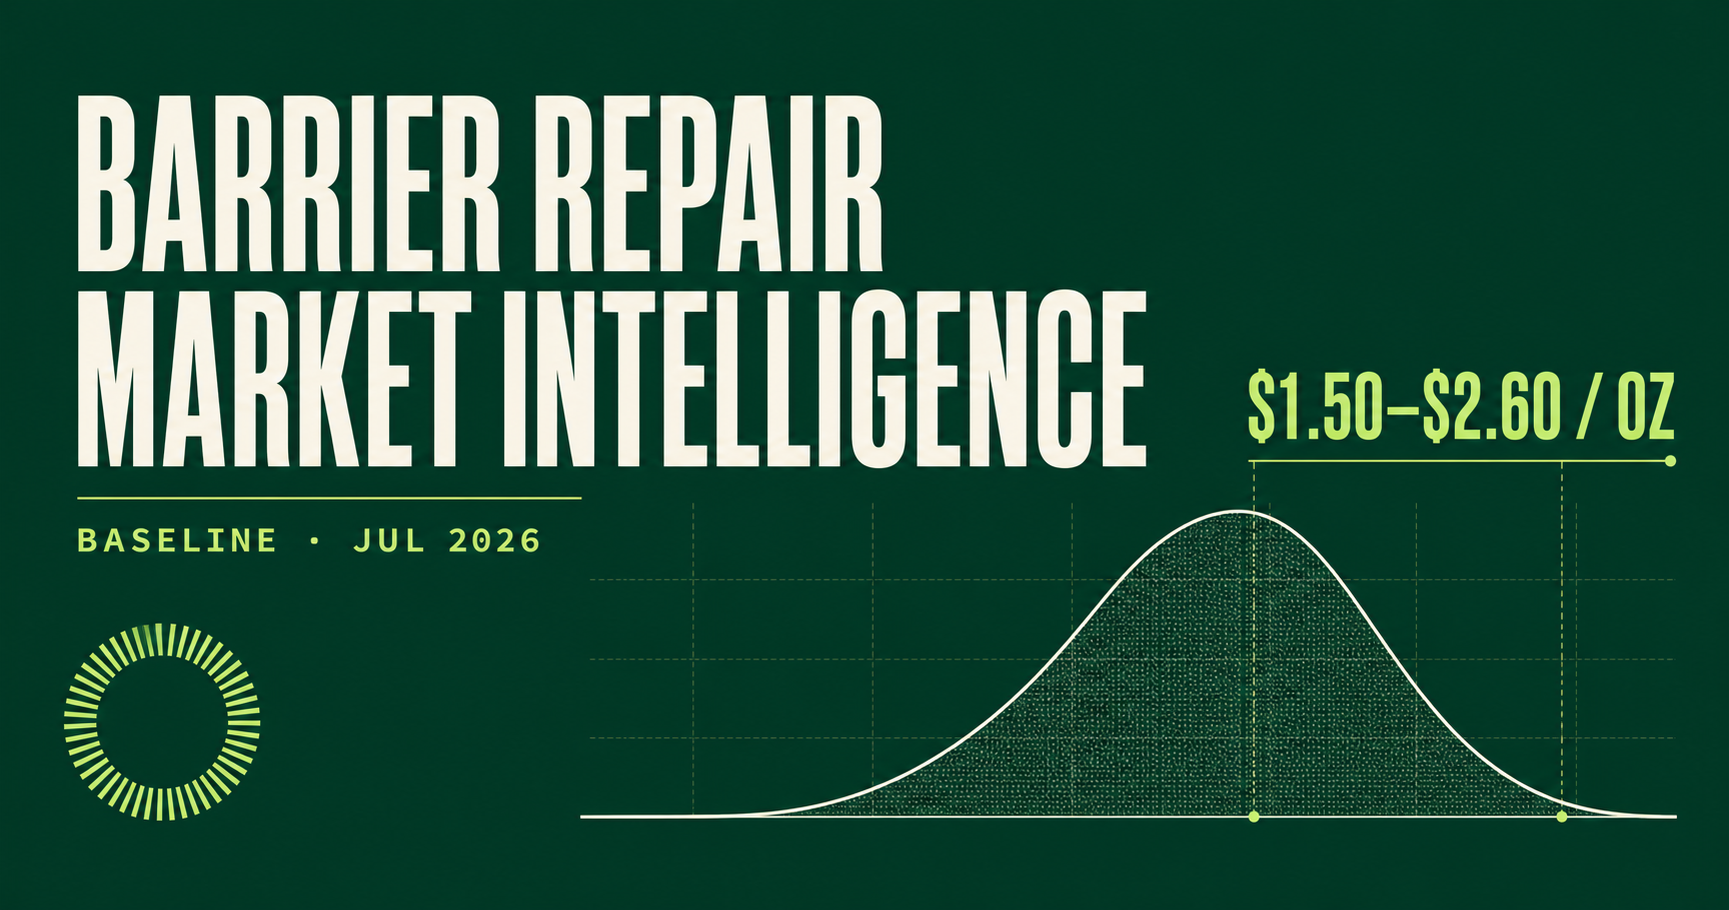
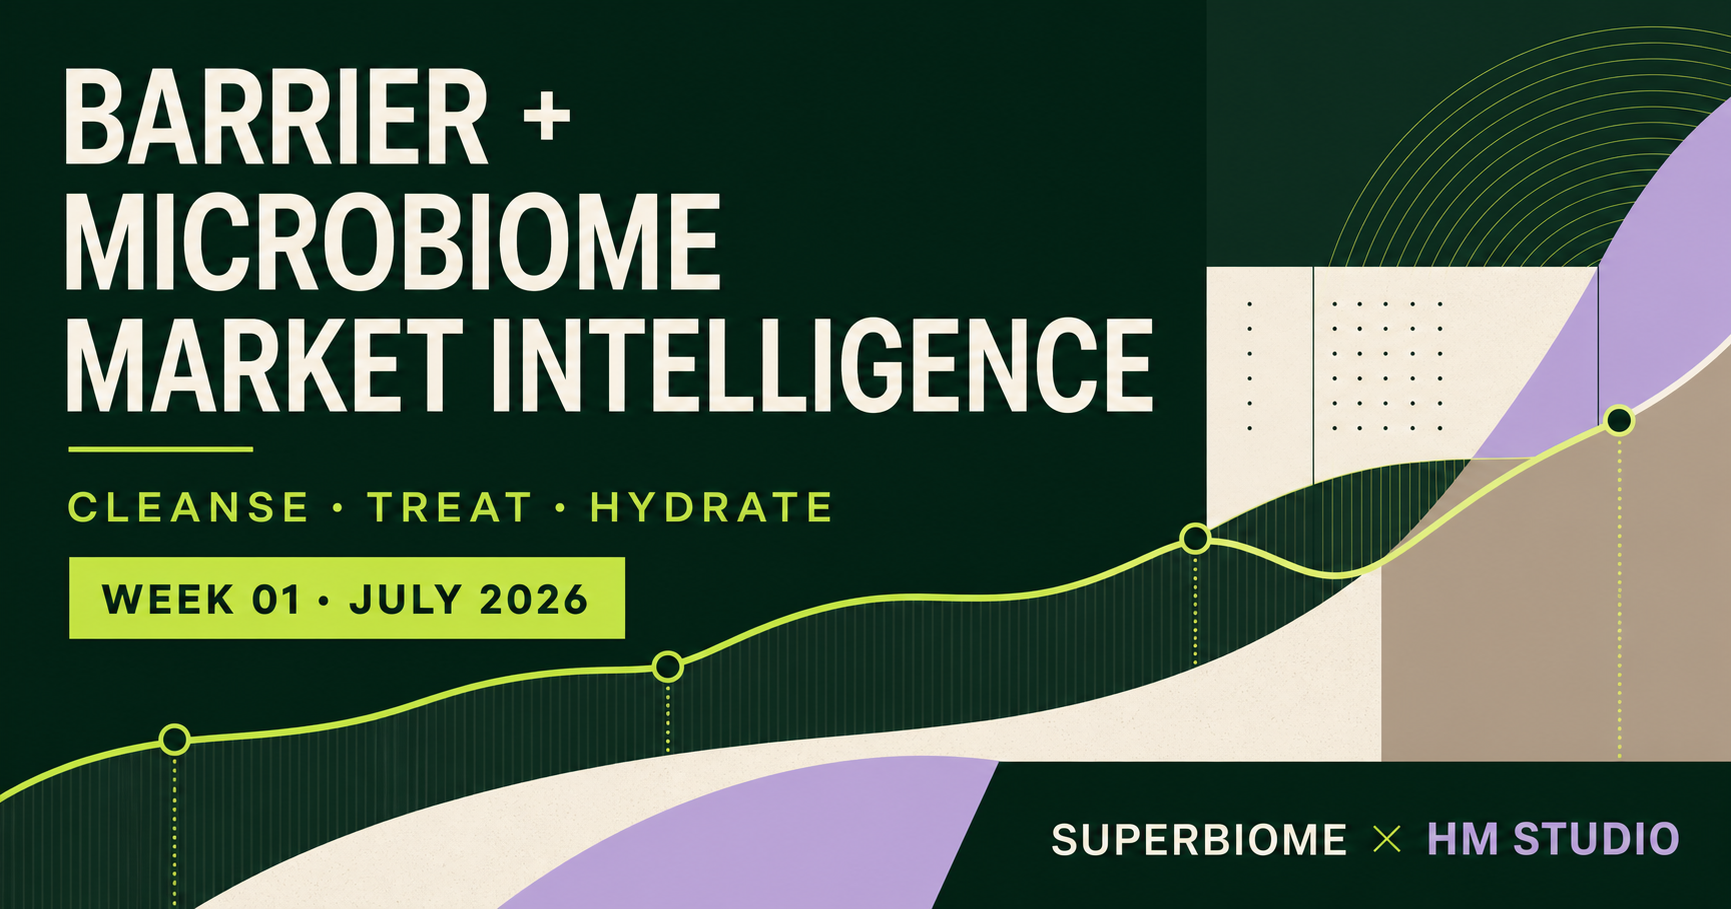
Expand intelligence dashboard to three-step system

diff --git a/app/page.tsx b/app/page.tsx
@@ -1,64 +1,64 @@
 "use client";
-
-import { useMemo, useState } from "react";
-
-type Product = {
-  rank: number; brand: string; product: string; platform: "Amazon" | "TikTok Shop" | "Cross-platform";
-  price: number; listPrice?: number; size: number; ppo: number; asin?: string; bsr?: number; subrank?: number;
-  velocity: string; signal: string; tier: "Value" | "Sweet spot" | "Premium"; url: string; confidence: "High" | "Medium";
-};
-
-const products: Product[] = [
-  {rank:1,brand:"Prequel",product:"Gleanser",platform:"TikTok Shop",price:22,size:13.5,ppo:1.63,velocity:"56.5K sold",signal:"Category breakout: face + body, 50% glycerin",tier:"Sweet spot",url:"https://shop.tiktok.com/us/k/gleanser-prequel",confidence:"High"},
-  {rank:2,brand:"CeraVe",product:"Hydrating Facial Cleanser",platform:"Amazon",price:14.37,listPrice:18.99,size:16,ppo:.90,asin:"B01MSSDEPK",bsr:50,subrank:2,velocity:"70K+ / month",signal:"Mass anchor; 24% discount; ceramide authority",tier:"Value",url:"https://www.amazon.com/dp/B01MSSDEPK",confidence:"High"},
-  {rank:3,brand:"Vanicream",product:"Gentle Facial Cleanser",platform:"Amazon",price:9.97,listPrice:12.55,size:8,ppo:1.25,asin:"B00QY1XZ4W",bsr:38,subrank:3,velocity:"70K+ / month",signal:"Sensitive-skin trust; 21% discount",tier:"Value",url:"https://www.amazon.com/dp/B00QY1XZ4W",confidence:"High"},
-  {rank:4,brand:"La Roche-Posay",product:"Toleriane Hydrating Gentle Cleanser",platform:"Amazon",price:19.97,size:13.52,ppo:1.48,asin:"B01N7T7JKJ",bsr:87,subrank:6,velocity:"70K+ / month",signal:"Derm credibility + ceramide/niacinamide",tier:"Value",url:"https://www.amazon.com/dp/B01N7T7JKJ",confidence:"High"},
-  {rank:5,brand:"BYOMA",product:"Creamy Jelly Cleanser",platform:"Cross-platform",price:11.49,size:5.91,ppo:1.94,velocity:"25 sold (visible listing)",signal:"Tri-ceramide + bright visual codes; TikTok-native",tier:"Sweet spot",url:"https://shop.tiktok.com/us/pdp/creamy-jelly-cleanser-byoma-for-hydration-skin-barrier-repair/1731151872467439664",confidence:"Medium"},
-  {rank:6,brand:"Naturium",product:"Niacinamide Cleansing Gelée 3%",platform:"TikTok Shop",price:17.90,listPrice:21,size:7.1,ppo:2.52,velocity:"326 sold",signal:"15% promo; active-led, non-stripping proposition",tier:"Sweet spot",url:"https://shop.tiktok.com/us/pdp/niacinamide-cleansing-gelee-3-by-naturium-for-soft-smooth-skin/1729776876934828438",confidence:"High"},
-  {rank:7,brand:"KraveBeauty",product:"Matcha Hemp Hydrating Cleanser",platform:"Amazon",price:16,size:4.05,ppo:3.95,asin:"B0BZ9KMY3S",bsr:7562,subrank:135,velocity:"Amazon rank visible",signal:"K-beauty sensoriality; non-stripping",tier:"Premium",url:"https://www.amazon.com/dp/B0BZ9KMY3S",confidence:"High"},
-  {rank:8,brand:"BeautyStat",product:"Universal Microbiome Barrier Balancing Cleanser",platform:"TikTok Shop",price:13,listPrice:26,size:4,ppo:3.25,velocity:"24.8K shop sold; 148 reviews",signal:"Direct microbiome language; 50% retail markdown",tier:"Premium",url:"https://shop.tiktok.com/us/pdp/cleanser-beautystat-universal-microbiome-barrier-150ml-hydrates-protects/1729414753674367088",confidence:"High"},
-  {rank:9,brand:"Aveeno",product:"Calm + Restore Nourishing Oat Cleanser",platform:"Cross-platform",price:11.99,size:7.8,ppo:1.54,velocity:"Editorial + marketplace visibility",signal:"Oat/comfort cue; sensitive-skin mass value",tier:"Sweet spot",url:"https://www.ulta.com/p/calm-restore-nourishing-oat-facial-cleanser-pimprod2017040",confidence:"Medium"},
-  {rank:10,brand:"ROUND LAB",product:"1025 Dokdo Cleanser",platform:"Amazon",price:11.39,listPrice:15,size:5.07,ppo:2.25,velocity:"1,761 Amazon ratings",signal:"Low-pH K-beauty; 24% observed discount",tier:"Sweet spot",url:"https://www.amazon.com/s?k=ROUND+LAB+1025+Dokdo+Cleanser+150ml",confidence:"Medium"},
-  {rank:11,brand:"Skinfix",product:"Barrier+ Ceramide + Ectoin Gentle Gel",platform:"Cross-platform",price:30,size:6,ppo:5,velocity:"Current barrier-community chatter",signal:"Clinical-premium; ectoin + ceramide",tier:"Premium",url:"https://skinfix.com/products/barrier-ectoin-ceramide-gentle-gel-cleanser",confidence:"Medium"},
-  {rank:12,brand:"ETUDE",product:"SoonJung pH 6.5 Whip Cleanser",platform:"Amazon",price:13,size:5.06,ppo:2.57,velocity:"Current deal/search visibility",signal:"Low-pH foam for sensitive skin",tier:"Sweet spot",url:"https://www.amazon.com/s?k=ETUDE+SoonJung+pH+6.5+Whip+Cleanser",confidence:"Medium"},
-  {rank:13,brand:"Cetaphil",product:"Gentle Skin Cleanser",platform:"Amazon",price:14.47,size:20,ppo:.72,velocity:"Mass evergreen",signal:"Lowest unit-cost anchor; sensitive-skin trust",tier:"Value",url:"https://www.amazon.com/s?k=Cetaphil+Gentle+Skin+Cleanser+20+oz",confidence:"Medium"},
-  {rank:14,brand:"The Ordinary",product:"Glycolipid Cream Cleanser",platform:"Cross-platform",price:12.50,size:5,ppo:2.50,velocity:"Strong brand/search visibility",signal:"Cream texture + minimalist clinical value",tier:"Sweet spot",url:"https://theordinary.com/en-us/glycolipid-cream-face-cleanser-100615.html",confidence:"Medium"},
-  {rank:15,brand:"Eucerin",product:"Hydrating Cleansing Gel",platform:"Amazon",price:10.99,size:6.8,ppo:1.62,velocity:"Derm/mass search visibility",signal:"Hyaluronic-acid hydration at value pricing",tier:"Sweet spot",url:"https://www.amazon.com/s?k=Eucerin+Hydrating+Cleansing+Gel",confidence:"Medium"},
-];
-
-const signals = [
-  ["Viral leader", "Prequel Gleanser", "56.5K TikTok Shop units visible — far ahead of the observed challenger set."],
-  ["Price disruption", "BeautyStat", "50% sale compresses a $6.50/oz list position to $3.25/oz; useful for trial, risky for premium reference price."],
-  ["New-SKU watch", "Skinfix soft-foam clay", "Brand comparison imagery marks a Balancing Soft-Foam Clay Cleanser as new: barrier is expanding beyond dry/sensitive."],
-  ["Format shift", "High-glycerin + face/body", "Gleanser proves that radical value-per-ounce and a named formulation story can coexist."],
-];
-
-export default function Home() {
-  const [query,setQuery]=useState(""); const [platform,setPlatform]=useState("All"); const [sort,setSort]=useState("rank");
-  const rows=useMemo(()=>products.filter(p=>(platform==="All"||p.platform.includes(platform))&&(p.brand+" "+p.product).toLowerCase().includes(query.toLowerCase())).sort((a,b)=>sort==="ppo"?a.ppo-b.ppo:sort==="bsr"?(a.bsr??999999)-(b.bsr??999999):a.rank-b.rank),[query,platform,sort]);
-  return <main>
-    <header className="hero"><nav><span className="mark">○</span><b>superbiome</b><span className="cobrand">× <img src="/hm-studio-logo.png" alt="HM Studio"/><span>HM Studio</span></span><span className="date">BASELINE · JUL 14, 2026</span></nav><div className="heroGrid"><div><p className="eyebrow">WEEKLY MARKET INTELLIGENCE</p><h1>Barrier repair has become<br/>the price of entry.</h1><p className="dek">The opportunity is no longer to say “gentle.” It is to make a more ownable promise at the category’s proven unit economics.</p></div><div className="heroMetric"><span>Observed sweet spot</span><strong>$1.50–$2.60</strong><small>per fluid ounce · central cluster</small></div></div></header>
-
-    <section className="metrics">
-      <div><span>15</span><p>priority SKUs</p></div><div><span>$2.25</span><p>median / fl oz</p></div><div><span>4</span><p>live Amazon BSRs captured</p></div><div><span>56.5K</span><p>Gleanser TikTok units</p></div>
-    </section>
-
-    <section className="section narrative"><div><p className="eyebrow">THE CATEGORY READ</p><h2>Mass trust owns velocity.<br/>TikTok owns the new language.</h2></div><div className="readout"><p><b>CeraVe, Vanicream and La Roche-Posay</b> sit inside Amazon’s top 100 Beauty & Personal Care products on the observed pages. Their advantage is not novelty; it is low unit cost, enormous review proof and the absence of drama.</p><p><b>Prequel is the strategic outlier.</b> It turns a technical formulation fact—50% glycerin—into an ownable name, sells a generous face/body pack at $1.63/oz, and shows 56.5K TikTok Shop units sold.</p><p><b>Implication for Superbiome:</b> Larry’s cleanser should not enter as another ceramide-safe wash. The white space is “fewer products, better biology” with a concrete formulation reason to believe and an opening price near the $18–$24 corridor.</p></div></section>
-
-    <section className="section chartSection"><div className="sectionHead"><div><p className="eyebrow">PRICE ARCHITECTURE</p><h2>Unit price, not ticket price, reveals the field.</h2></div><div className="legend"><i className="value"/>Value <i className="sweet"/>Sweet spot <i className="premium"/>Premium</div></div>
-      <div className="chart">{[...products].sort((a,b)=>a.ppo-b.ppo).map(p=><div className="barRow" key={p.brand}><span>{p.brand}</span><div className="track"><div className={`bar ${p.tier.replace(" ","").toLowerCase()}`} style={{width:`${p.ppo/5*100}%`}}/><em style={{left:`${Math.min(92,p.ppo/5*100)}%`}}>${p.ppo.toFixed(2)}</em></div></div>)}</div>
-      <div className="chartNote"><b>Sweet spot:</b> median $2.25/oz; the middle 50% concentrates around $1.50–$2.60/oz. Premium formulations must visibly earn the step-up above $3/oz.</div>
-    </section>
-
-    <section className="section"><div className="sectionHead"><div><p className="eyebrow">COMPETITIVE SET</p><h2>Baseline product table</h2></div><a className="download" href="/data/baseline-2026-07-14.csv" download>Download CSV ↓</a></div>
-      <div className="controls"><input aria-label="Search products" placeholder="Search brand or SKU" value={query} onChange={e=>setQuery(e.target.value)}/><select aria-label="Filter platform" value={platform} onChange={e=>setPlatform(e.target.value)}><option>All</option><option>Amazon</option><option>TikTok Shop</option></select><select aria-label="Sort products" value={sort} onChange={e=>setSort(e.target.value)}><option value="rank">Sort: trend score</option><option value="ppo">Sort: price / oz</option><option value="bsr">Sort: Amazon BSR</option></select></div>
-      <div className="tableWrap"><table><thead><tr><th>#</th><th>Brand / SKU</th><th>Platform</th><th>Price</th><th>Size</th><th>$/oz</th><th>Amazon BSR</th><th>Velocity signal</th></tr></thead><tbody>{rows.map(p=><tr key={p.rank}><td>{p.rank}</td><td><a href={p.url} target="_blank" rel="noreferrer"><b>{p.brand}</b><small>{p.product}</small></a></td><td><span className="pill">{p.platform}</span></td><td>${p.price.toFixed(2)}{p.listPrice&&<small className="strike">${p.listPrice.toFixed(2)} list</small>}</td><td>{p.size} oz</td><td><b>${p.ppo.toFixed(2)}</b></td><td>{p.bsr?<><b>#{p.bsr.toLocaleString()}</b><small>Beauty · #{p.subrank} Face Wash</small></>:<span className="na">Not exposed</span>}</td><td><small>{p.velocity}</small><span className={`confidence ${p.confidence.toLowerCase()}`}>{p.confidence}</span></td></tr>)}</tbody></table></div>
-    </section>
-
-    <section className="section signalSection"><p className="eyebrow">MOVEMENT WATCH</p><h2>What deserves attention now</h2><div className="signalGrid">{signals.map((s,i)=><article key={s[0]}><span>0{i+1}</span><p className="eyebrow">{s[0]}</p><h3>{s[1]}</h3><p>{s[2]}</p></article>)}</div></section>
-
-    <section className="section actions"><div><p className="eyebrow">SUPERBIOME ACTIONS</p><h2>Three moves toward the<br/>1,000-customer engine.</h2></div><ol><li><b>Price the entry cleanser for legibility.</b><span>Model $18–$24, but protect a $1.50–$2.60/oz story through pack size. A tiny premium tube will read like the category, not category creation.</span></li><li><b>Name the biological mechanism.</b><span>“Microbiome-friendly” is already generic. Build the proposition around the specific thing the formula preserves, removes less of, or helps maintain—subject to substantiation.</span></li><li><b>Use TikTok for proof, not fear.</b><span>Lead with post-cleanse feel, simplification and visible routine relief. Science earns the claim underneath; “your cleanser is destroying you” spends trust.</span></li></ol></section>
-
-    <footer><div><b>Methodology</b><p>Composite trend set based on live Amazon BSR/velocity where exposed, TikTok Shop sold/review signals, current marketplace visibility, and 2026 editorial/community momentum. Prices are observed or current retailer prices and may vary by seller/location. “Not exposed” means the accessible live page did not provide a defensible BSR. No BSR was inferred. First run establishes the time-series baseline.</p></div><div><b>Next refresh</b><p>Tuesday, July 21, 2026 · 9:00 AM ET<br/>Weekly comparisons begin after observation two.</p></div><div className="studioCredit"><img src="/hm-studio-logo.png" alt="HM Studio logo"/><p><b>Strategy &amp; analysis by HM Studio</b><br/>Fractional Brand &amp; GTM Architecture<br/><a href="https://hannahmcgough.com" target="_blank" rel="noreferrer">hannahmcgough.com</a><br/><small>© 2026 HM Studio</small></p></div></footer>
-  </main>;
-}
+import {useMemo,useState} from "react";
+type Step="cleanse"|"treat"|"hydrate";
+type P={rank:number;brand:string;product:string;platform:string;price:number;size:number;ppo:number;velocity:string;signal:string;micro:boolean;microType?:string;bsr?:number;asin?:string;url:string;confidence:"High"|"Medium"};
+const cleanse:P[]=[
+{rank:1,brand:"Prequel",product:"Gleanser",platform:"TikTok Shop",price:22,size:13.5,ppo:1.63,velocity:"56.5K sold",signal:"50% glycerin; face + body value",micro:false,url:"https://shop.tiktok.com/us/k/gleanser-prequel",confidence:"High"},
+{rank:2,brand:"CeraVe",product:"Hydrating Facial Cleanser",platform:"Amazon",price:14.37,size:16,ppo:.90,velocity:"70K+ / month",signal:"Ceramide mass anchor",micro:false,bsr:50,asin:"B01MSSDEPK",url:"https://www.amazon.com/dp/B01MSSDEPK",confidence:"High"},
+{rank:3,brand:"Vanicream",product:"Gentle Facial Cleanser",platform:"Amazon",price:9.97,size:8,ppo:1.25,velocity:"70K+ / month",signal:"Sensitive-skin trust",micro:false,bsr:38,asin:"B00QY1XZ4W",url:"https://www.amazon.com/dp/B00QY1XZ4W",confidence:"High"},
+{rank:4,brand:"La Roche-Posay",product:"Toleriane Hydrating Gentle",platform:"Amazon",price:19.97,size:13.52,ppo:1.48,velocity:"70K+ / month",signal:"Prebiotic water + ceramide",micro:true,microType:"Prebiotic",bsr:87,asin:"B01N7T7JKJ",url:"https://www.amazon.com/dp/B01N7T7JKJ",confidence:"High"},
+{rank:5,brand:"BYOMA",product:"Creamy Jelly Cleanser",platform:"Cross-platform",price:11.49,size:5.91,ppo:1.94,velocity:"TikTok-native",signal:"Tri-ceramide; visual codes",micro:false,url:"https://shop.tiktok.com/us/pdp/creamy-jelly-cleanser-byoma-for-hydration-skin-barrier-repair/1731151872467439664",confidence:"Medium"},
+{rank:6,brand:"Naturium",product:"Niacinamide Cleansing Gelée",platform:"TikTok Shop",price:17.9,size:7.1,ppo:2.52,velocity:"326 sold",signal:"Active-led non-stripping",micro:false,url:"https://shop.tiktok.com/us/pdp/niacinamide-cleansing-gelee-3-by-naturium-for-soft-smooth-skin/1729776876934828438",confidence:"High"},
+{rank:7,brand:"KraveBeauty",product:"Matcha Hemp Hydrating",platform:"Amazon",price:16,size:4.05,ppo:3.95,velocity:"Amazon rank visible",signal:"K-beauty sensoriality",micro:false,bsr:7562,asin:"B0BZ9KMY3S",url:"https://www.amazon.com/dp/B0BZ9KMY3S",confidence:"High"},
+{rank:8,brand:"BeautyStat",product:"Microbiome Barrier Balancing",platform:"TikTok Shop",price:13,size:4,ppo:3.25,velocity:"24.8K shop sold",signal:"Direct microbiome proposition",micro:true,microType:"Microbiome",url:"https://shop.tiktok.com/us/pdp/cleanser-beautystat-universal-microbiome-barrier-150ml-hydrates-protects/1729414753674367088",confidence:"High"},
+{rank:9,brand:"Aveeno",product:"Calm + Restore Oat",platform:"Cross-platform",price:11.99,size:7.8,ppo:1.54,velocity:"Mass/editorial",signal:"Oat comfort cue",micro:false,url:"https://www.ulta.com/p/calm-restore-nourishing-oat-facial-cleanser-pimprod2017040",confidence:"Medium"},
+{rank:10,brand:"ROUND LAB",product:"1025 Dokdo Cleanser",platform:"Amazon",price:11.39,size:5.07,ppo:2.25,velocity:"1,761 ratings",signal:"Low-pH K-beauty",micro:false,url:"https://www.amazon.com/s?k=ROUND+LAB+1025+Dokdo+Cleanser",confidence:"Medium"},
+{rank:11,brand:"Skinfix",product:"Ceramide + Ectoin Gentle Gel",platform:"Cross-platform",price:30,size:6,ppo:5,velocity:"Community chatter",signal:"Clinical-premium",micro:false,url:"https://skinfix.com/products/barrier-ectoin-ceramide-gentle-gel-cleanser",confidence:"Medium"},
+{rank:12,brand:"ETUDE",product:"SoonJung pH 6.5 Whip",platform:"Amazon",price:13,size:5.06,ppo:2.57,velocity:"Deal visibility",signal:"Low-pH sensitive foam",micro:false,url:"https://www.amazon.com/s?k=ETUDE+SoonJung+pH+6.5+Whip",confidence:"Medium"},
+{rank:13,brand:"Cetaphil",product:"Gentle Skin Cleanser",platform:"Amazon",price:14.47,size:20,ppo:.72,velocity:"Mass evergreen",signal:"Lowest unit-cost anchor",micro:false,url:"https://www.amazon.com/s?k=Cetaphil+Gentle+Skin+Cleanser+20+oz",confidence:"Medium"},
+{rank:14,brand:"The Ordinary",product:"Glycolipid Cream Cleanser",platform:"Cross-platform",price:12.5,size:5,ppo:2.5,velocity:"Strong search",signal:"Clinical value",micro:false,url:"https://theordinary.com/en-us/glycolipid-cream-face-cleanser-100615.html",confidence:"Medium"},
+{rank:15,brand:"Eucerin",product:"Hydrating Cleansing Gel",platform:"Amazon",price:10.99,size:6.8,ppo:1.62,velocity:"Derm/mass",signal:"HA hydration value",micro:false,url:"https://www.amazon.com/s?k=Eucerin+Hydrating+Cleansing+Gel",confidence:"Medium"}];
+const treat:P[]=[
+{rank:1,brand:"Cocokind",product:"Ceramide Barrier Serum",platform:"TikTok Shop",price:20.6,size:1,ppo:20.6,velocity:"498 sold",signal:"21% promo; accessible ceramides",micro:false,url:"https://shop.tiktok.com/us/k/barrier-serums",confidence:"High"},
+{rank:2,brand:"The Ordinary",product:"Soothing & Barrier Support Serum",platform:"Cross-platform",price:17.5,size:1,ppo:17.5,velocity:"High search/social",signal:"Pink formula; mass clinical",micro:false,url:"https://theordinary.com/en-us/soothing-barrier-support-serum-100634.html",confidence:"High"},
+{rank:3,brand:"KraveBeauty",product:"Great Barrier Relief",platform:"Cross-platform",price:28,size:1.52,ppo:18.42,velocity:"Cult/community",signal:"Tamanu + oil-serum format",micro:false,url:"https://kravebeauty.com/products/great-barrier-relief",confidence:"High"},
+{rank:4,brand:"Prequel",product:"Multi-Quench Plumping Serum",platform:"TikTok Shop",price:28,size:1.7,ppo:16.47,velocity:"Brand: 631K shop sold",signal:"Large-format hydration treatment",micro:false,url:"https://shop.tiktok.com/us/k/prequel-multi-quench-serum",confidence:"Medium"},
+{rank:5,brand:"Experiment",product:"Super Saturated",platform:"Cross-platform",price:28,size:1,ppo:28,velocity:"Creator/derm momentum",signal:"30% glycerin named story",micro:false,url:"https://experimentbeauty.com/products/super-saturated",confidence:"Medium"},
+{rank:6,brand:"Naturium",product:"Barrier Bounce",platform:"Cross-platform",price:25,size:1.7,ppo:14.71,velocity:"Retail/social momentum",signal:"Peptide + squalane emulsion",micro:false,url:"https://naturium.com/products/barrier-bounce",confidence:"Medium"},
+{rank:7,brand:"The INKEY List",product:"Ectoin Hydro-Barrier Serum",platform:"Cross-platform",price:15,size:1,ppo:15,velocity:"Ingredient momentum",signal:"Ectoin value challenger",micro:false,url:"https://www.theinkeylist.com/products/ectoin-hydro-barrier-serum",confidence:"Medium"},
+{rank:8,brand:"Murad",product:"Biome-Balancing Clear & Prevent",platform:"TikTok Shop",price:71,size:1,ppo:71,velocity:"TikTok exclusive",signal:"Biome-sensing tech + acne actives",micro:true,microType:"Biome-sensing",url:"https://shop.tiktok.com/us/pdp/biome-balancing-acne-serum-by-murad-clears-breakouts-fast-non-comedogenic-formula-supports-healthy-s/1731001908607488040",confidence:"High"},
+{rank:9,brand:"U Beauty",product:"Barrier Bioactive Mist",platform:"Cross-platform",price:78,size:3.38,ppo:23.08,velocity:"2026 editorial breakout",signal:"Postbiotic serum-mist",micro:true,microType:"Postbiotic",url:"https://www.ubeauty.com/products/the-barrier-bioactive-treatment",confidence:"High"},
+{rank:10,brand:"BYOMA",product:"Hydrating Serum",platform:"Cross-platform",price:16,size:1.01,ppo:15.84,velocity:"TikTok-native",signal:"Tri-ceramide mass serum",micro:false,url:"https://byoma.com/products/hydrating-serum",confidence:"Medium"},
+{rank:11,brand:"Glow Recipe",product:"Avocado Ceramide Recovery",platform:"Cross-platform",price:45,size:1,ppo:45,velocity:"Prestige social",signal:"Redness/barrier desire hook",micro:false,url:"https://www.glowrecipe.com/products/avocado-ceramide-recovery-serum",confidence:"Medium"},
+{rank:12,brand:"Skinfix",product:"Triple Lipid + Collagen Serum",platform:"Cross-platform",price:52,size:1,ppo:52,velocity:"Clinical prestige",signal:"Lipid replenishment",micro:false,url:"https://skinfix.com/collections/serums",confidence:"Medium"},
+{rank:13,brand:"Gallinée",product:"Youthful Serum",platform:"Cross-platform",price:45,size:1,ppo:45,velocity:"Microbiome niche",signal:"Prebiotic + postbiotic language",micro:true,microType:"Pre/Postbiotic",url:"https://www.gallinee.com/collections/face",confidence:"Medium"},
+{rank:14,brand:"Roe Wellness",product:"Probiotic Power Serum",platform:"TikTok Shop",price:32,size:1,ppo:32,velocity:"Probiotic set visibility",signal:"Family/kids biome positioning",micro:true,microType:"Probiotic",url:"https://shop.tiktok.com/us/pdp/probiotic-power-serum-biome-barrier-cream-set-by-roe-wellness-for-kids/1729943833416536620",confidence:"Medium"},
+{rank:15,brand:"Kat Burki",product:"VitaBiome Active Skin Optimizer",platform:"Cross-platform",price:75,size:3.4,ppo:22.06,velocity:"2026 award/editorial",signal:"Biome sequencing proof story",micro:true,microType:"Pre/Pro/Postbiotic",url:"https://www.katburki.com",confidence:"Medium"}];
+const hydrate:P[]=[
+{rank:1,brand:"ILLIYOON",product:"Ceramide Ato Concentrate Cream",platform:"TikTok Shop",price:15.82,size:6.76,ppo:2.34,velocity:"53K sold",signal:"K-beauty value + 100h claim",micro:false,url:"https://shop.tiktok.com/us/k/moisturizers-to-help-skin-barrier",confidence:"High"},
+{rank:2,brand:"Purito",product:"Mighty Bamboo Panthenol Cream",platform:"TikTok Shop",price:23,size:3.38,ppo:6.8,velocity:"11.2K sold",signal:"10% panthenol; recovery",micro:false,url:"https://shop.tiktok.com/us/k/moisturizers-to-help-skin-barrier",confidence:"High"},
+{rank:3,brand:"Dr. Althea",product:"345 Relief Cream",platform:"TikTok Shop",price:28.29,size:1.69,ppo:16.74,velocity:"40.4K sold",signal:"K-beauty viral recovery",micro:false,url:"https://shop.tiktok.com/us/k/moisturizers-to-help-skin-barrier",confidence:"High"},
+{rank:4,brand:"CeraVe",product:"Moisturizing Cream",platform:"Amazon",price:17.98,size:19,ppo:.95,velocity:"Mass leader",signal:"Ceramide value floor",micro:false,url:"https://www.amazon.com/s?k=CeraVe+Moisturizing+Cream+19+oz",confidence:"High"},
+{rank:5,brand:"La Roche-Posay",product:"Cicaplast Balm B5+",platform:"Cross-platform",price:18.99,size:1.35,ppo:14.07,velocity:"Hero repair product",signal:"Tribioma prebiotic complex",micro:true,microType:"Prebiotic",url:"https://www.laroche-posay.us/our-products/face/face-moisturizer/cicaplast-balm-b5-for-dry-skin-irritations-3337872412998.html",confidence:"High"},
+{rank:6,brand:"Tower 28",product:"SOS Barrier Recovery Cream",platform:"TikTok Shop",price:26.66,size:1.86,ppo:14.33,velocity:"257 sold",signal:"Sensitive-skin social proof",micro:false,url:"https://shop.tiktok.com/us/k/barrier-moisturizers-for-dry-skin",confidence:"High"},
+{rank:7,brand:"rhode",product:"Barrier Butter",platform:"TikTok Shop",price:23,size:5,ppo:4.6,velocity:"7.8K sold",signal:"Celebrity-led barrier desire",micro:false,url:"https://shop.tiktok.com/us/k/barrier-moisturizers-for-dry-skin",confidence:"High"},
+{rank:8,brand:"COSRX",product:"Ceramide Skin Barrier Moisturizer",platform:"TikTok Shop",price:18,size:2.7,ppo:6.67,velocity:"4.5K sold",signal:"Ceramide/cholesterol/fatty acid",micro:false,url:"https://shop.tiktok.com/us/pdp/moisturizer-cosrx-the-ceramide-skin-barrier-80ml-for-sensitive-dry-skin/1730843567728136363",confidence:"High"},
+{rank:9,brand:"Skinfix",product:"Barrier+ Triple Lipid Peptide",platform:"Cross-platform",price:54,size:1.7,ppo:31.76,velocity:"Prestige benchmark",signal:"3:1:1 lipid story",micro:false,url:"https://skinfix.com/products/barrier-triple-lipid-peptide-cream",confidence:"Medium"},
+{rank:10,brand:"AESTURA",product:"Atobarrier 365 Cream",platform:"Cross-platform",price:32,size:2.7,ppo:11.85,velocity:"K-beauty community",signal:"Capsule ceramide system",micro:false,url:"https://www.amazon.com/s?k=AESTURA+Atobarrier+365+Cream",confidence:"Medium"},
+{rank:11,brand:"BeautyStat",product:"Universal Pro-Bio Moisture Boost",platform:"Cross-platform",price:50,size:1.7,ppo:29.41,velocity:"Microbiome adjacency",signal:"Probiotic ferment positioning",micro:true,microType:"Probiotic ferment",url:"https://beautystat.com",confidence:"Medium"},
+{rank:12,brand:"Gallinée",product:"Hydrating Face Cream",platform:"Cross-platform",price:40,size:1.35,ppo:29.63,velocity:"Microbiome niche",signal:"Prebiotic + postbiotic + lactic acid",micro:true,microType:"Pre/Postbiotic",url:"https://www.gallinee.com/collections/face",confidence:"Medium"},
+{rank:13,brand:"TULA",product:"24-7 Hydrating Day & Night Cream",platform:"Cross-platform",price:58,size:1.5,ppo:38.67,velocity:"Probiotic prestige",signal:"Probiotic extracts",micro:true,microType:"Probiotic extract",url:"https://www.tula.com/products/24-7-moisture-hydrating-day-night-cream",confidence:"Medium"},
+{rank:14,brand:"Yobee",product:"Probiotic Skin Moisturizing Cream",platform:"TikTok Shop",price:40.13,size:4,ppo:10.03,velocity:"40 sold",signal:"Explicit microbiome support",micro:true,microType:"Probiotic",url:"https://shop.tiktok.com/us/k/skin-probiotics",confidence:"Medium"},
+{rank:15,brand:"Mesmerie",product:"Probiome Balance Cream",platform:"TikTok Shop",price:55,size:1.69,ppo:32.54,velocity:"1 sold",signal:"Loud multi-biotic claim; low proof",micro:true,microType:"Pre/Pro/Postbiotic",url:"https://shop.tiktok.com/us/pdp/probiotic-moisturizer-for-sensitive-skin-daily-hydration-care/1731349796933636507",confidence:"Medium"}];
+const sets={cleanse,treat,hydrate};
+const labels={cleanse:{n:"01",title:"Cleanse",sub:"Remove without stripping",unit:"$ / fl oz"},treat:{n:"02",title:"Treat",sub:"Intervene with a serum",unit:"$ / fl oz"},hydrate:{n:"03",title:"Hydrate",sub:"Replenish and seal",unit:"$ / fl oz"}};
+export default function Home(){const[step,setStep]=useState<Step>("cleanse");const[q,setQ]=useState("");const[microOnly,setMicroOnly]=useState(false);const[sort,setSort]=useState("rank");const data=sets[step];const rows=useMemo(()=>data.filter(p=>(!microOnly||p.micro)&&(p.brand+" "+p.product).toLowerCase().includes(q.toLowerCase())).sort((a,b)=>sort==="ppo"?a.ppo-b.ppo:sort==="bsr"?(a.bsr??999999)-(b.bsr??999999):a.rank-b.rank),[data,q,microOnly,sort]);const sorted=[...data].sort((a,b)=>a.ppo-b.ppo);const med=sorted[7].ppo;const microCount=data.filter(p=>p.micro).length;return <main>
+<header className="hero"><nav><span className="mark"/><b>superbiome</b><span className="cobrand">× <img src="/hm-studio-logo.png" alt="HM Studio"/><span>HM Studio</span></span><span className="date">WEEK 01 · JUL 14, 2026</span></nav><div className="heroGrid"><div><p className="eyebrow">BARRIER + MICROBIOME MARKET INTELLIGENCE</p><h1>Barrier care is no longer<br/>a niche. It is the routine.</h1><p className="dek">Across cleanse, treat and hydrate, the market has standardized around comfort and repair. The opening is to make the biology more legible—and the microbiome promise more credible.</p></div><div className="heroMetric"><span>State of the union</span><strong>45 SKUs</strong><small>3 steps · 15 priority products each</small></div></div></header>
+<section className="systemNav" aria-label="Larry's three-step system">{(Object.keys(labels) as Step[]).map(k=><button key={k} className={step===k?"active":""} onClick={()=>setStep(k)}><span>{labels[k].n}</span><b>{labels[k].title}</b><small>{labels[k].sub}</small></button>)}</section>
+<section className="metrics"><div><span>15</span><p>{labels[step].title} SKUs</p></div><div><span>${med.toFixed(2)}</span><p>median / fl oz</p></div><div><span>{microCount}</span><p>microbiome-adjacent</p></div><div><span>{step==="cleanse"?"56.5K":step==="treat"?"$71":"53K"}</span><p>{step==="cleanse"?"Gleanser units":step==="treat"?"biome serum ceiling":"ILLIYOON units"}</p></div></section>
+<section className="section narrative"><div><p className="eyebrow">{labels[step].title.toUpperCase()} STEP · CATEGORY READ</p><h2>{step==="cleanse"?"Value and gentleness drive scale.":step==="treat"?"The serum is where claims—and prices—expand.":"Hydration spans mass utility to biotech theater."}</h2></div><div className="readout">{step==="cleanse"?<><p><b>Amazon’s leaders win through trust and cost-per-use.</b> TikTok’s breakout, Prequel, adds a named formulation story and oversized pack.</p><p><b>Microbiome language is sparse.</b> That gives Superbiome room, but only if the mechanism is specific and substantiated.</p></>:step==="treat"?<><p><b>The sweet spot is $15–$28/oz, but biome language licenses a much higher ceiling.</b> Murad reaches $71/oz by pairing microbiome language with familiar acne actives.</p><p><b>Claims risk peaks here.</b> Pre-, pro- and postbiotic language frequently outruns proof. Ingredient fact and demonstrated outcome must remain separate.</p></>:<><p><b>The category polarizes.</b> Large-format K-beauty and mass creams create value below $7/oz, while prestige microbiome creams cluster near $30–$40/oz.</p><p><b>“Barrier” converts without “microbiome.”</b> The commercial job is proving why biome intelligence creates a better result—not merely adding another science word.</p></>}</div></section>
+<section className="section chartSection"><div className="sectionHead"><div><p className="eyebrow">PRICE ARCHITECTURE</p><h2>{labels[step].title} price per ounce</h2></div><div className="microLegend"><span className="microDot"/> Microbiome-adjacent claim</div></div><div className="chart">{sorted.map(p=><div className="barRow" key={p.brand+p.product}><span>{p.brand}{p.micro&&<i className="microDot"/>}</span><div className="track"><div className={`bar ${p.micro?"microbar":""}`} style={{width:`${Math.max(2,p.ppo/Math.max(...data.map(x=>x.ppo))*100)}%`}}/><em style={{left:`${Math.min(91,p.ppo/Math.max(...data.map(x=>x.ppo))*100)}%`}}>${p.ppo.toFixed(2)}</em></div></div>)}</div></section>
+<section className="section"><div className="sectionHead"><div><p className="eyebrow">COMPETITIVE SET</p><h2>{labels[step].title} baseline</h2></div><span className="methodTag">Observed Jul 14, 2026</span></div><div className="controls"><input aria-label="Search" placeholder="Search brand or SKU" value={q} onChange={e=>setQ(e.target.value)}/><label className="check"><input type="checkbox" checked={microOnly} onChange={e=>setMicroOnly(e.target.checked)}/> Microbiome-adjacent only</label><select value={sort} onChange={e=>setSort(e.target.value)}><option value="rank">Sort: trend score</option><option value="ppo">Sort: price / oz</option><option value="bsr">Sort: Amazon BSR</option></select></div><div className="tableWrap"><table><thead><tr><th>#</th><th>Brand / SKU</th><th>Platform</th><th>Price</th><th>Size</th><th>$/oz</th><th>Biome signal</th><th>Velocity / BSR</th></tr></thead><tbody>{rows.map(p=><tr key={p.rank}><td>{p.rank}</td><td><a href={p.url} target="_blank" rel="noreferrer"><b>{p.brand}</b><small>{p.product}</small></a></td><td><span className="pill">{p.platform}</span></td><td>${p.price.toFixed(2)}</td><td>{p.size} oz</td><td><b>${p.ppo.toFixed(2)}</b></td><td>{p.micro?<span className="microPill">{p.microType}</span>:<span className="na">None explicit</span>}<small>{p.signal}</small></td><td>{p.bsr&&<b>BSR #{p.bsr.toLocaleString()}</b>}<small>{p.velocity}</small><span className={`confidence ${p.confidence.toLowerCase()}`}>{p.confidence}</span></td></tr>)}</tbody></table></div></section>
+<section className="section signalSection"><p className="eyebrow">WEEKLY UNION</p><h2>What the full system says</h2><div className="signalGrid"><article><span>01</span><p className="eyebrow">CATEGORY</p><h3>Barrier is the new “clean.”</h3><p>It has moved from concern to organizing principle across every routine step.</p></article><article><span>02</span><p className="eyebrow">VELOCITY</p><h3>Value still wins volume.</h3><p>Generous packs and legible ingredient stories outperform vague premium science.</p></article><article><span>03</span><p className="eyebrow">MICROBIOME</p><h3>Language exceeds proof.</h3><p>Biome claims command premiums, but many listings blur ingredient, mechanism and outcome.</p></article><article><span>04</span><p className="eyebrow">SUPERBIOME</p><h3>Own the honest middle.</h3><p>More specific than “barrier-safe”; more trustworthy than microbiome theater.</p></article></div></section>
+<section className="section actions"><div><p className="eyebrow">LARRY'S THREE-STEP SYSTEM</p><h2>Less routine.<br/>More reason.</h2></div><ol><li><b>Cleanse without collateral damage.</b><span>Make what the formula preserves as important as what it removes.</span></li><li><b>Treat the measurable need.</b><span>One targeted intervention, with mechanism and evidence separated cleanly.</span></li><li><b>Hydrate to maintain the system.</b><span>Replenish water and lipids; earn repeat purchase through felt results, not dependency.</span></li></ol></section>
+<footer><div><b>Methodology</b><p>Composite trend set based on live Amazon BSR/velocity where exposed, TikTok Shop sold/review signals, marketplace visibility, and current editorial/community momentum. Microbiome-adjacent includes explicit microbiome, biome, prebiotic, probiotic, postbiotic, ferment or flora language. Inclusion is not validation. No unavailable BSR was inferred.</p></div><div><b>Next refresh</b><p>Tuesday · 9:00 AM ET<br/>Cleanse · Treat · Hydrate</p></div><div className="studioCredit"><img src="/hm-studio-logo.png" alt="HM Studio logo"/><p><b>Strategy &amp; analysis by HM Studio</b><br/>Fractional Brand &amp; GTM Architecture<br/><a href="https://hannahmcgough.com" target="_blank" rel="noreferrer">hannahmcgough.com</a><br/><small>© 2026 HM Studio</small></p></div></footer></main>}

diff --git a/app/layout.tsx b/app/layout.tsx
@@ -3,5 +3,5 @@ import { Geist, Geist_Mono } from "next/font/google";
 import "./globals.css";
 const geist=Geist({variable:"--font-sans",subsets:["latin"]});
 const mono=Geist_Mono({variable:"--font-mono",subsets:["latin"]});
-export const metadata: Metadata={title:"Superbiome | Barrier-Repair Cleanser Intelligence",description:"Weekly Amazon and TikTok Shop category intelligence for barrier-repair cleansers.",icons:{icon:"/favicon.svg"},openGraph:{title:"Barrier Repair Market Intelligence",description:"Superbiome baseline · July 2026",images:["/og.png"]},twitter:{card:"summary_large_image",title:"Barrier Repair Market Intelligence",description:"Superbiome baseline · July 2026",images:["/og.png"]}};
+export const metadata: Metadata={title:"Superbiome | Barrier + Microbiome Market Intelligence",description:"Weekly Amazon and TikTok Shop intelligence across cleanse, treat, and hydrate.",icons:{icon:"/favicon.svg"},openGraph:{title:"Barrier + Microbiome Market Intelligence",description:"Cleanse · Treat · Hydrate | Weekly category intelligence by HM Studio",images:["/og.png"]},twitter:{card:"summary_large_image",title:"Barrier + Microbiome Market Intelligence",description:"Cleanse · Treat · Hydrate | Weekly category intelligence by HM Studio",images:["/og.png"]}};
 export default function RootLayout({children}:{children:React.ReactNode}){return <html lang="en"><body className={`${geist.variable} ${mono.variable}`}>{children}</body></html>}

diff --git a/app/globals.css b/app/globals.css
@@ -2,3 +2,4 @@
 :root{--ink:#11130f;--paper:#f4f1e8;--green:#006f43;--lime:#c7f36a;--line:#c9c5ba;--muted:#676a62}*{box-sizing:border-box}html{scroll-behavior:smooth}body{margin:0;background:var(--paper);color:var(--ink);font-family:var(--font-sans),Arial,sans-serif}main{overflow:hidden}.hero{background:var(--green);color:white;padding:26px 4.5vw 70px;border-bottom:1px solid #005c38}nav{display:flex;align-items:center;gap:10px;font-size:20px}.mark{display:grid;place-items:center;border:2px solid white;border-radius:50%;width:27px;height:27px;font-size:0}.mark:after{content:"";width:17px;height:17px;border:1px solid white;border-radius:50%}.date{margin-left:auto;font:11px var(--font-mono);letter-spacing:.11em}.heroGrid{display:grid;grid-template-columns:1.6fr .75fr;gap:7vw;align-items:end;margin-top:95px}.eyebrow{font:11px var(--font-mono);letter-spacing:.14em;margin:0 0 16px;text-transform:uppercase}.hero h1{font-size:clamp(48px,6.8vw,104px);line-height:.91;letter-spacing:-.065em;margin:0;max-width:1100px}.dek{max-width:680px;font-size:20px;line-height:1.45;margin:35px 0 0;color:#d8eee3}.heroMetric{border-top:1px solid #7ab99b;padding-top:18px}.heroMetric span,.heroMetric small{display:block;color:#c7e6d5}.heroMetric strong{display:block;font-size:45px;letter-spacing:-.05em;margin:8px 0}.metrics{display:grid;grid-template-columns:repeat(4,1fr);border-bottom:1px solid var(--line)}.metrics div{padding:32px 4vw;border-right:1px solid var(--line)}.metrics span{font-size:34px;font-weight:650}.metrics p{margin:5px 0 0;color:var(--muted);font-size:13px}.section{padding:90px 4.5vw;border-bottom:1px solid var(--line)}.narrative{display:grid;grid-template-columns:1fr 1fr;gap:10vw}.section h2{font-size:clamp(37px,4.6vw,70px);line-height:.98;letter-spacing:-.055em;margin:0}.readout{font-size:18px;line-height:1.6}.readout p{margin:0 0 24px}.sectionHead{display:flex;justify-content:space-between;align-items:end;gap:30px}.legend{font:11px var(--font-mono);display:flex;align-items:center;gap:8px;white-space:nowrap}.legend i{width:10px;height:10px;border-radius:50%;margin-left:10px}.value{background:#88b8a0}.sweet{background:var(--green)}.premium{background:#bb7048}.chart{margin-top:55px;border-top:1px solid var(--line);padding-top:18px}.barRow{display:grid;grid-template-columns:140px 1fr;align-items:center;height:37px;font-size:12px}.track{height:10px;background:#e2ded3;position:relative}.bar{height:100%}.bar.value{background:#88b8a0}.bar.sweetspot{background:var(--green)}.bar.premium{background:#bb7048}.track em{position:absolute;top:-4px;transform:translateX(8px);font:10px var(--font-mono)}.chartNote{margin:32px 0 0 140px;background:white;padding:18px 22px;max-width:700px;font-size:14px}.download{color:var(--ink);text-underline-offset:5px}.controls{display:flex;gap:10px;margin:40px 0 16px}.controls input,.controls select{background:white;border:1px solid var(--line);padding:12px 14px;font:13px var(--font-sans)}.controls input{flex:1}.tableWrap{overflow:auto;background:white;border:1px solid var(--line)}table{border-collapse:collapse;width:100%;min-width:1100px}th{text-align:left;font:10px var(--font-mono);letter-spacing:.08em;text-transform:uppercase;color:var(--muted);padding:14px;border-bottom:1px solid var(--line)}td{padding:15px 14px;border-bottom:1px solid #e4e1d9;font-size:13px;vertical-align:top}td a{color:inherit;text-decoration:none}td small{display:block;color:var(--muted);margin-top:4px;line-height:1.3}.strike{text-decoration:line-through}.pill{font:9px var(--font-mono);background:#e7eee8;padding:5px 7px;border-radius:20px;white-space:nowrap}.na{color:#999}.confidence{display:inline-block;margin-top:7px;font:9px var(--font-mono);padding:3px 6px;border-radius:10px}.confidence.high{background:#dcf3df;color:#1b6b36}.confidence.medium{background:#f3ead3;color:#866411}.signalSection{background:#151711;color:white}.signalGrid{display:grid;grid-template-columns:repeat(4,1fr);margin-top:55px;border-top:1px solid #4a4c46}.signalGrid article{padding:22px 25px 0 0;border-right:1px solid #4a4c46;min-height:260px}.signalGrid article+article{padding-left:25px}.signalGrid article>span{font:11px var(--font-mono);color:var(--lime)}.signalGrid .eyebrow{margin-top:50px;color:#aeb1aa}.signalGrid h3{font-size:27px;letter-spacing:-.03em;margin:0 0 15px}.signalGrid article p:last-child{color:#bbbdb7;line-height:1.5;font-size:14px}.actions{display:grid;grid-template-columns:1fr 1fr;gap:10vw}.actions ol{margin:0;padding:0;list-style:none;counter-reset:a}.actions li{counter-increment:a;display:grid;grid-template-columns:30px 1fr;border-top:1px solid var(--line);padding:22px 0}.actions li:before{content:"0" counter(a);font:10px var(--font-mono);color:var(--green)}.actions li b,.actions li span{grid-column:2}.actions li b{font-size:20px}.actions li span{margin-top:8px;color:var(--muted);line-height:1.5}footer{display:grid;grid-template-columns:2fr 1fr;gap:10vw;background:#dfdbcf;padding:45px 4.5vw;font-size:12px;line-height:1.6}footer p{color:#5e615a}@media(max-width:800px){.heroGrid,.narrative,.actions{grid-template-columns:1fr}.heroGrid{margin-top:70px}.heroMetric{margin-top:30px}.metrics{grid-template-columns:1fr 1fr}.metrics div:nth-child(2){border-right:0}.section{padding:65px 5vw}.sectionHead{align-items:start;flex-direction:column}.legend{flex-wrap:wrap}.barRow{grid-template-columns:95px 1fr}.chartNote{margin-left:0}.signalGrid{grid-template-columns:1fr}.signalGrid article{border-right:0;border-bottom:1px solid #4a4c46;padding:25px 0!important;min-height:auto}.signalGrid .eyebrow{margin-top:25px}.controls{flex-direction:column}footer{grid-template-columns:1fr}}
 
 .cobrand{display:flex;align-items:center;gap:8px;margin-left:10px;font:10px var(--font-mono);letter-spacing:.08em;text-transform:uppercase;color:#d8eee3}.cobrand img{width:30px;height:30px;object-fit:cover;border-radius:2px}footer{grid-template-columns:2fr 1fr 1fr;gap:6vw}.studioCredit{display:flex;align-items:center;gap:14px}.studioCredit img{width:76px;height:76px;object-fit:cover;flex:none}.studioCredit p{margin:0}.studioCredit a{color:inherit;text-underline-offset:3px}.studioCredit small{font:10px var(--font-mono)}@media(max-width:800px){.cobrand span{display:none}.date{font-size:9px}footer{grid-template-columns:1fr}}
+.systemNav{display:grid;grid-template-columns:repeat(3,1fr);border-bottom:1px solid var(--line);background:#ebe7dc}.systemNav button{appearance:none;border:0;border-right:1px solid var(--line);background:transparent;color:var(--ink);text-align:left;padding:25px 4vw;cursor:pointer;display:grid;grid-template-columns:30px 1fr;transition:.2s}.systemNav button:hover{background:#f7f4ec}.systemNav button.active{background:var(--lime)}.systemNav button>span{grid-row:1/3;font:10px var(--font-mono);padding-top:5px}.systemNav b{font-size:24px}.systemNav small{color:var(--muted);margin-top:3px}.microLegend{font:10px var(--font-mono);display:flex;align-items:center;gap:7px}.microDot{display:inline-block!important;width:9px;height:9px;background:var(--lime);border:1px solid var(--green);border-radius:50%;margin-left:6px}.bar.microbar{background:var(--green);box-shadow:inset 0 0 0 2px var(--lime)}.methodTag{font:10px var(--font-mono);color:var(--muted)}.check{display:flex;align-items:center;gap:8px;background:white;border:1px solid var(--line);padding:0 14px;font-size:12px}.check input{accent-color:var(--green)}.microPill{font:9px var(--font-mono);background:var(--lime);color:#243311;padding:4px 7px;border-radius:20px;display:inline-block}.barRow>span{display:flex;align-items:center}@media(max-width:800px){.systemNav button{padding:18px 10px;grid-template-columns:22px 1fr}.systemNav b{font-size:18px}.systemNav small{font-size:9px}.microLegend{margin-top:10px}.check{padding:12px 14px}}